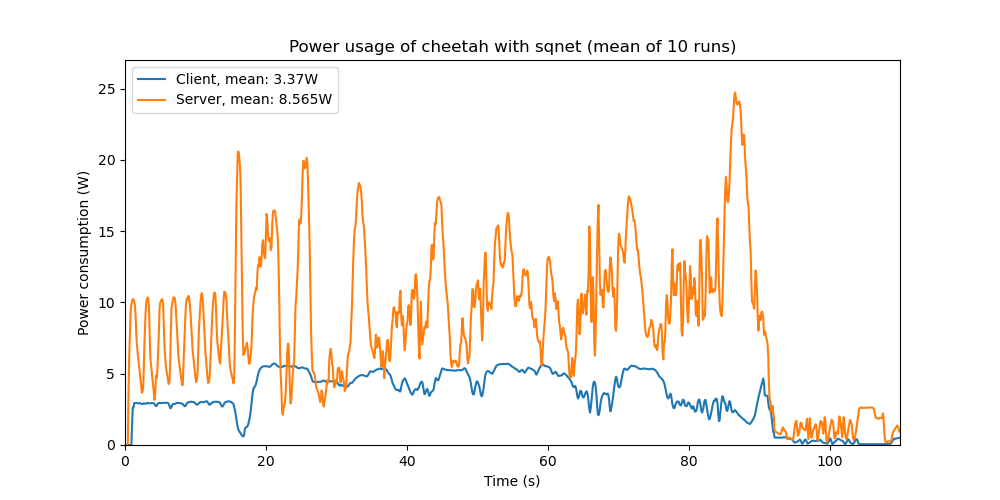
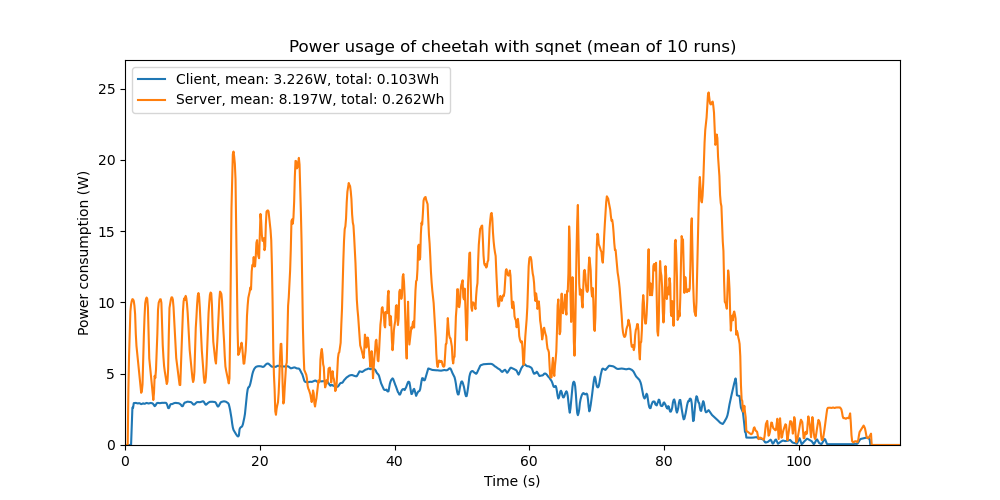
BW tests written

diff --git a/Code/Plots/mean_single.py b/Code/Plots/mean_single.py
@@ -78,13 +78,17 @@ def plot(dir: str, runs: int, end: int):
     plt.ylabel("Power consumption (W)")
     data = dir.split('/')[-1].split('_')
     plt.title("Power usage of {} with {} (mean of {} runs)".format(data[0], data[1], runs))
-    plt.plot(x_, np.mean(interp_client, 0), label="Client, mean: {}W".format(round(np.mean(np.mean(interp_client, 0)), 3)))
-    plt.plot(x_, np.mean(interp_server, 0), label="Server, mean: {}W".format(round(np.mean(np.mean(interp_server, 0)), 3)))
+    plt.plot(x_, np.mean(interp_client, 0), label="Client, mean: {}W, total: {}Wh".format(
+                            round(np.mean(np.mean(interp_client, 0)), 3),
+                            round(np.mean(np.mean(interp_client, 0)) * (end /3600), 3)))
+    plt.plot(x_, np.mean(interp_server, 0), label="Server, mean: {}W, total: {}Wh".format(
+                            round(np.mean(np.mean(interp_server, 0)), 3),
+                            round(np.mean(np.mean(interp_server, 0)) * (end /3600), 3)))
     plt.legend()
     plt.savefig("Code/Plots/Means/{}_{}_{}.png".format(os.path.basename(__file__).partition(".py")[0], data[1], data[0]))
     return (x_, np.mean(interp_client, 0), np.mean(interp_server, 0))
 
-xcr, csc, css = plot('Code/Plots/Results/laptop_desktop/cheetah_sqnet', runs=10, end=110)
+xcr, csc, css = plot('Code/Plots/Results/laptop_desktop/cheetah_sqnet', runs=10, end=115)
 exit()
 # Plot means of client side
 plt.figure(figsize=(10,5))
